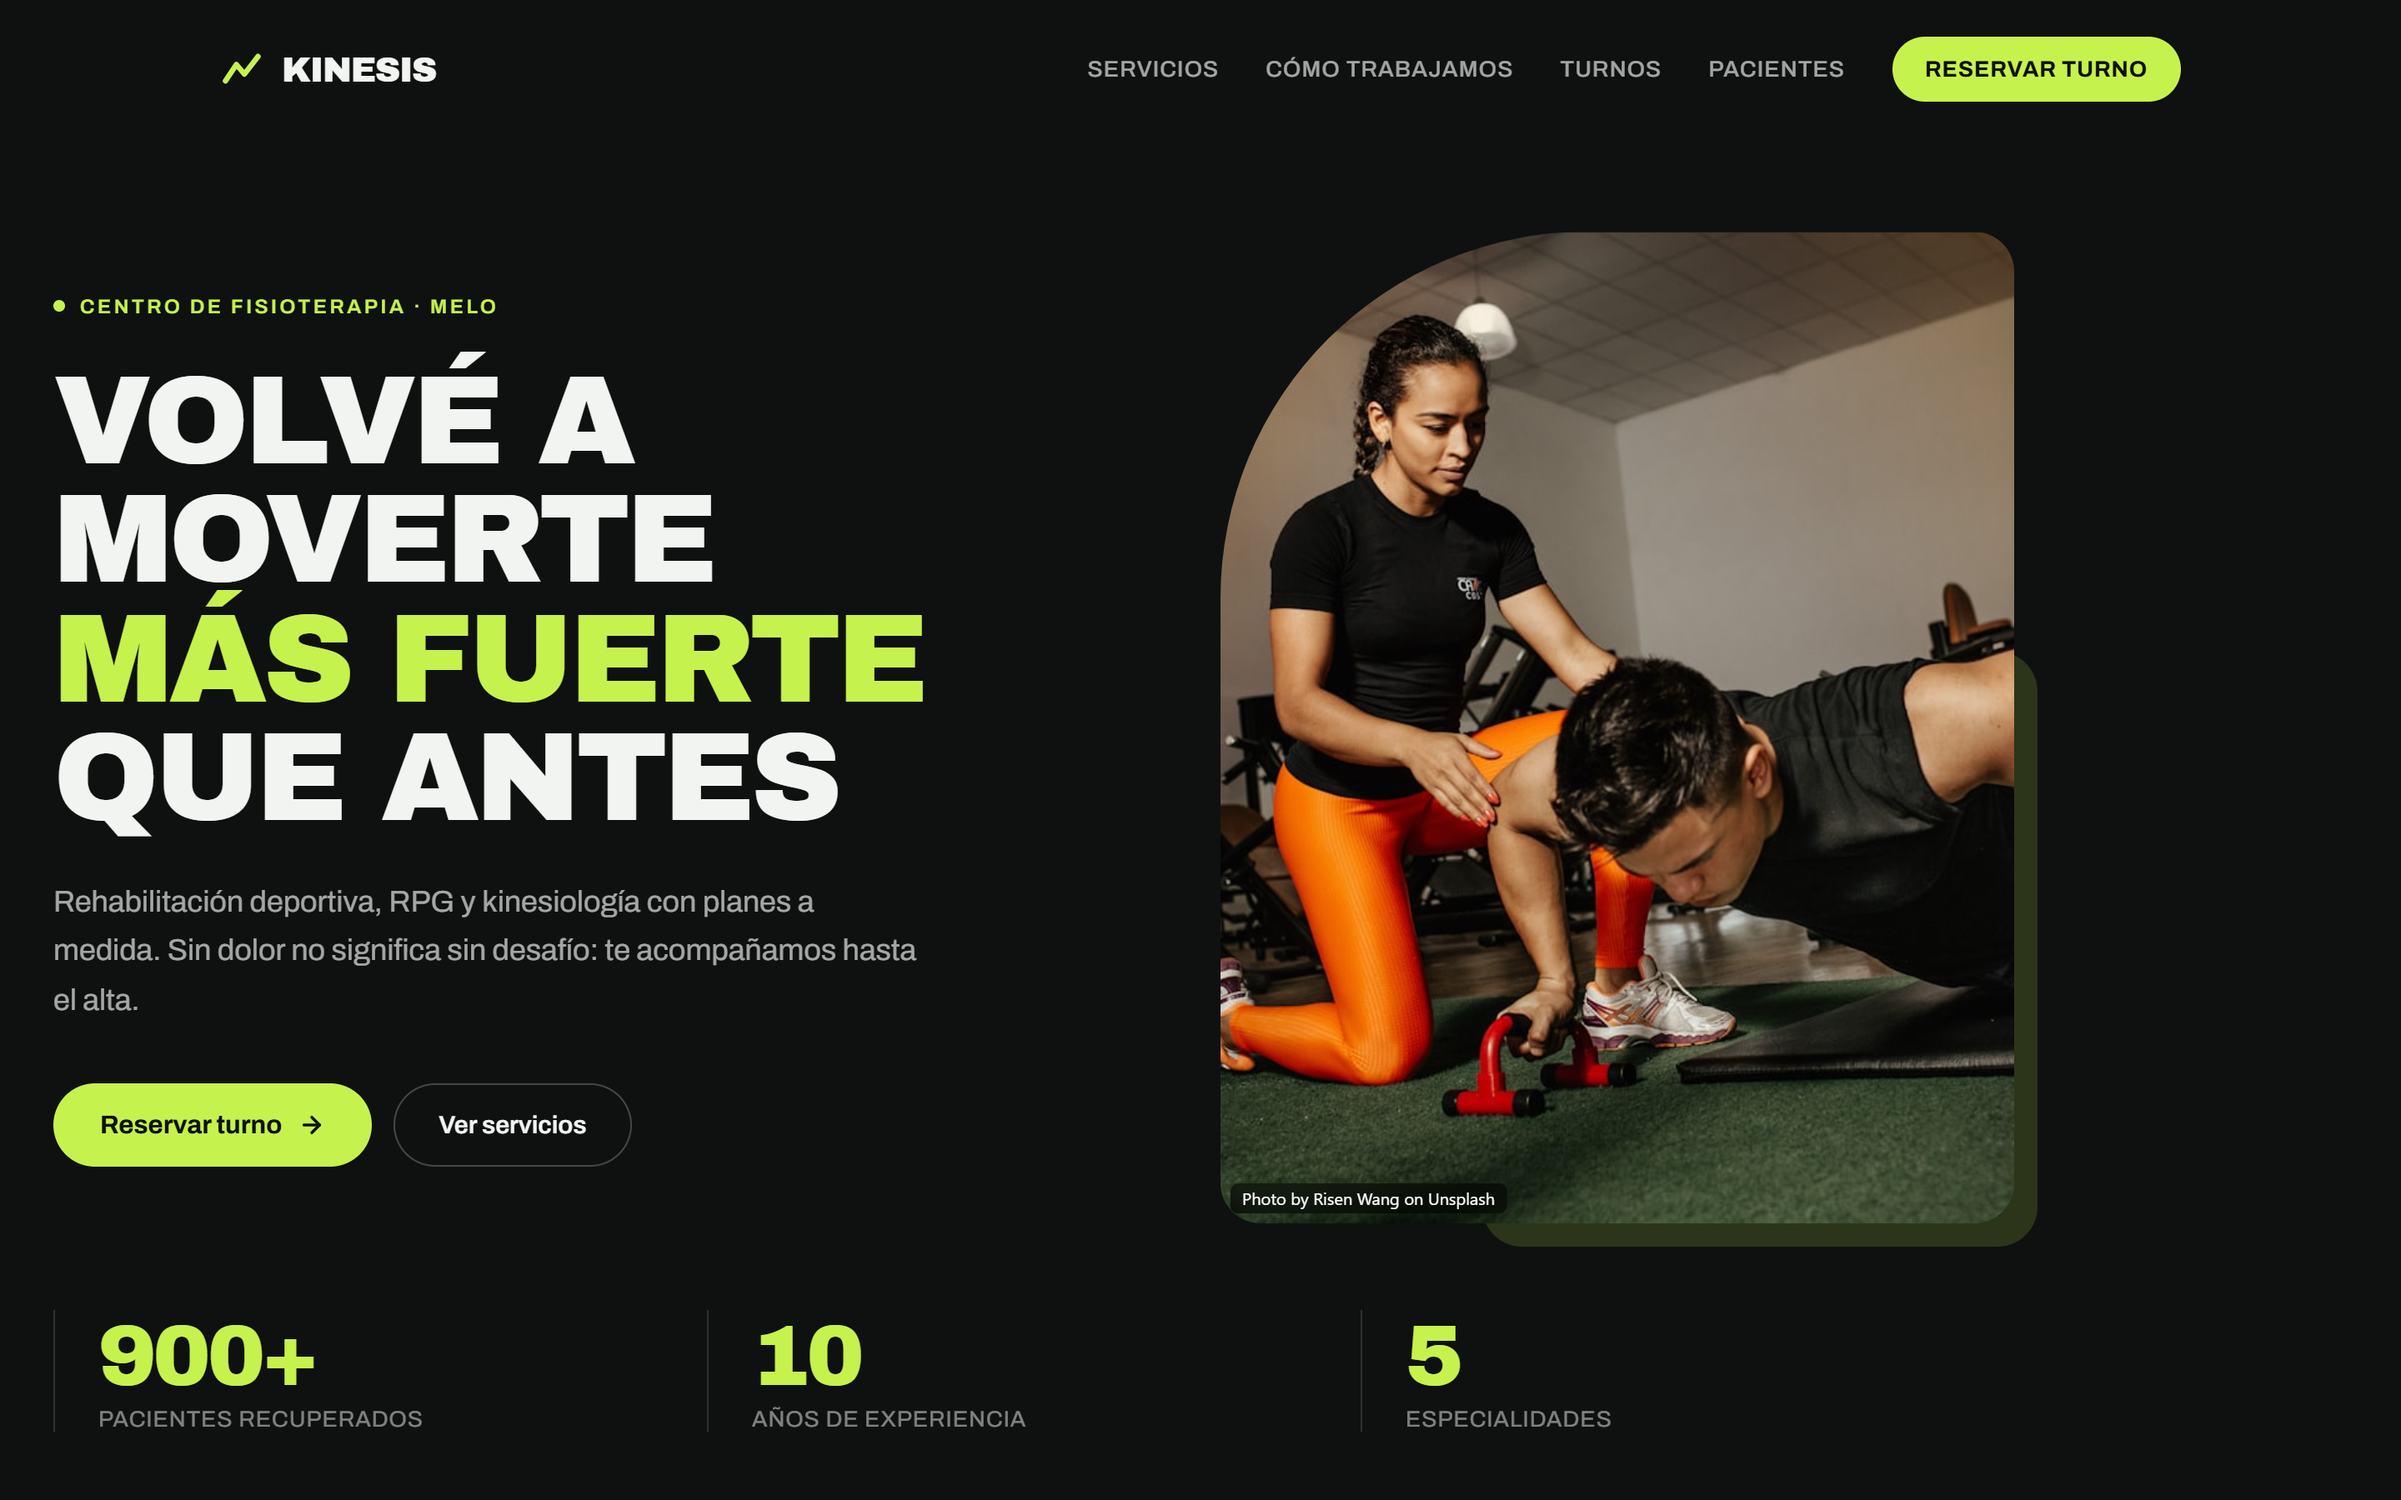
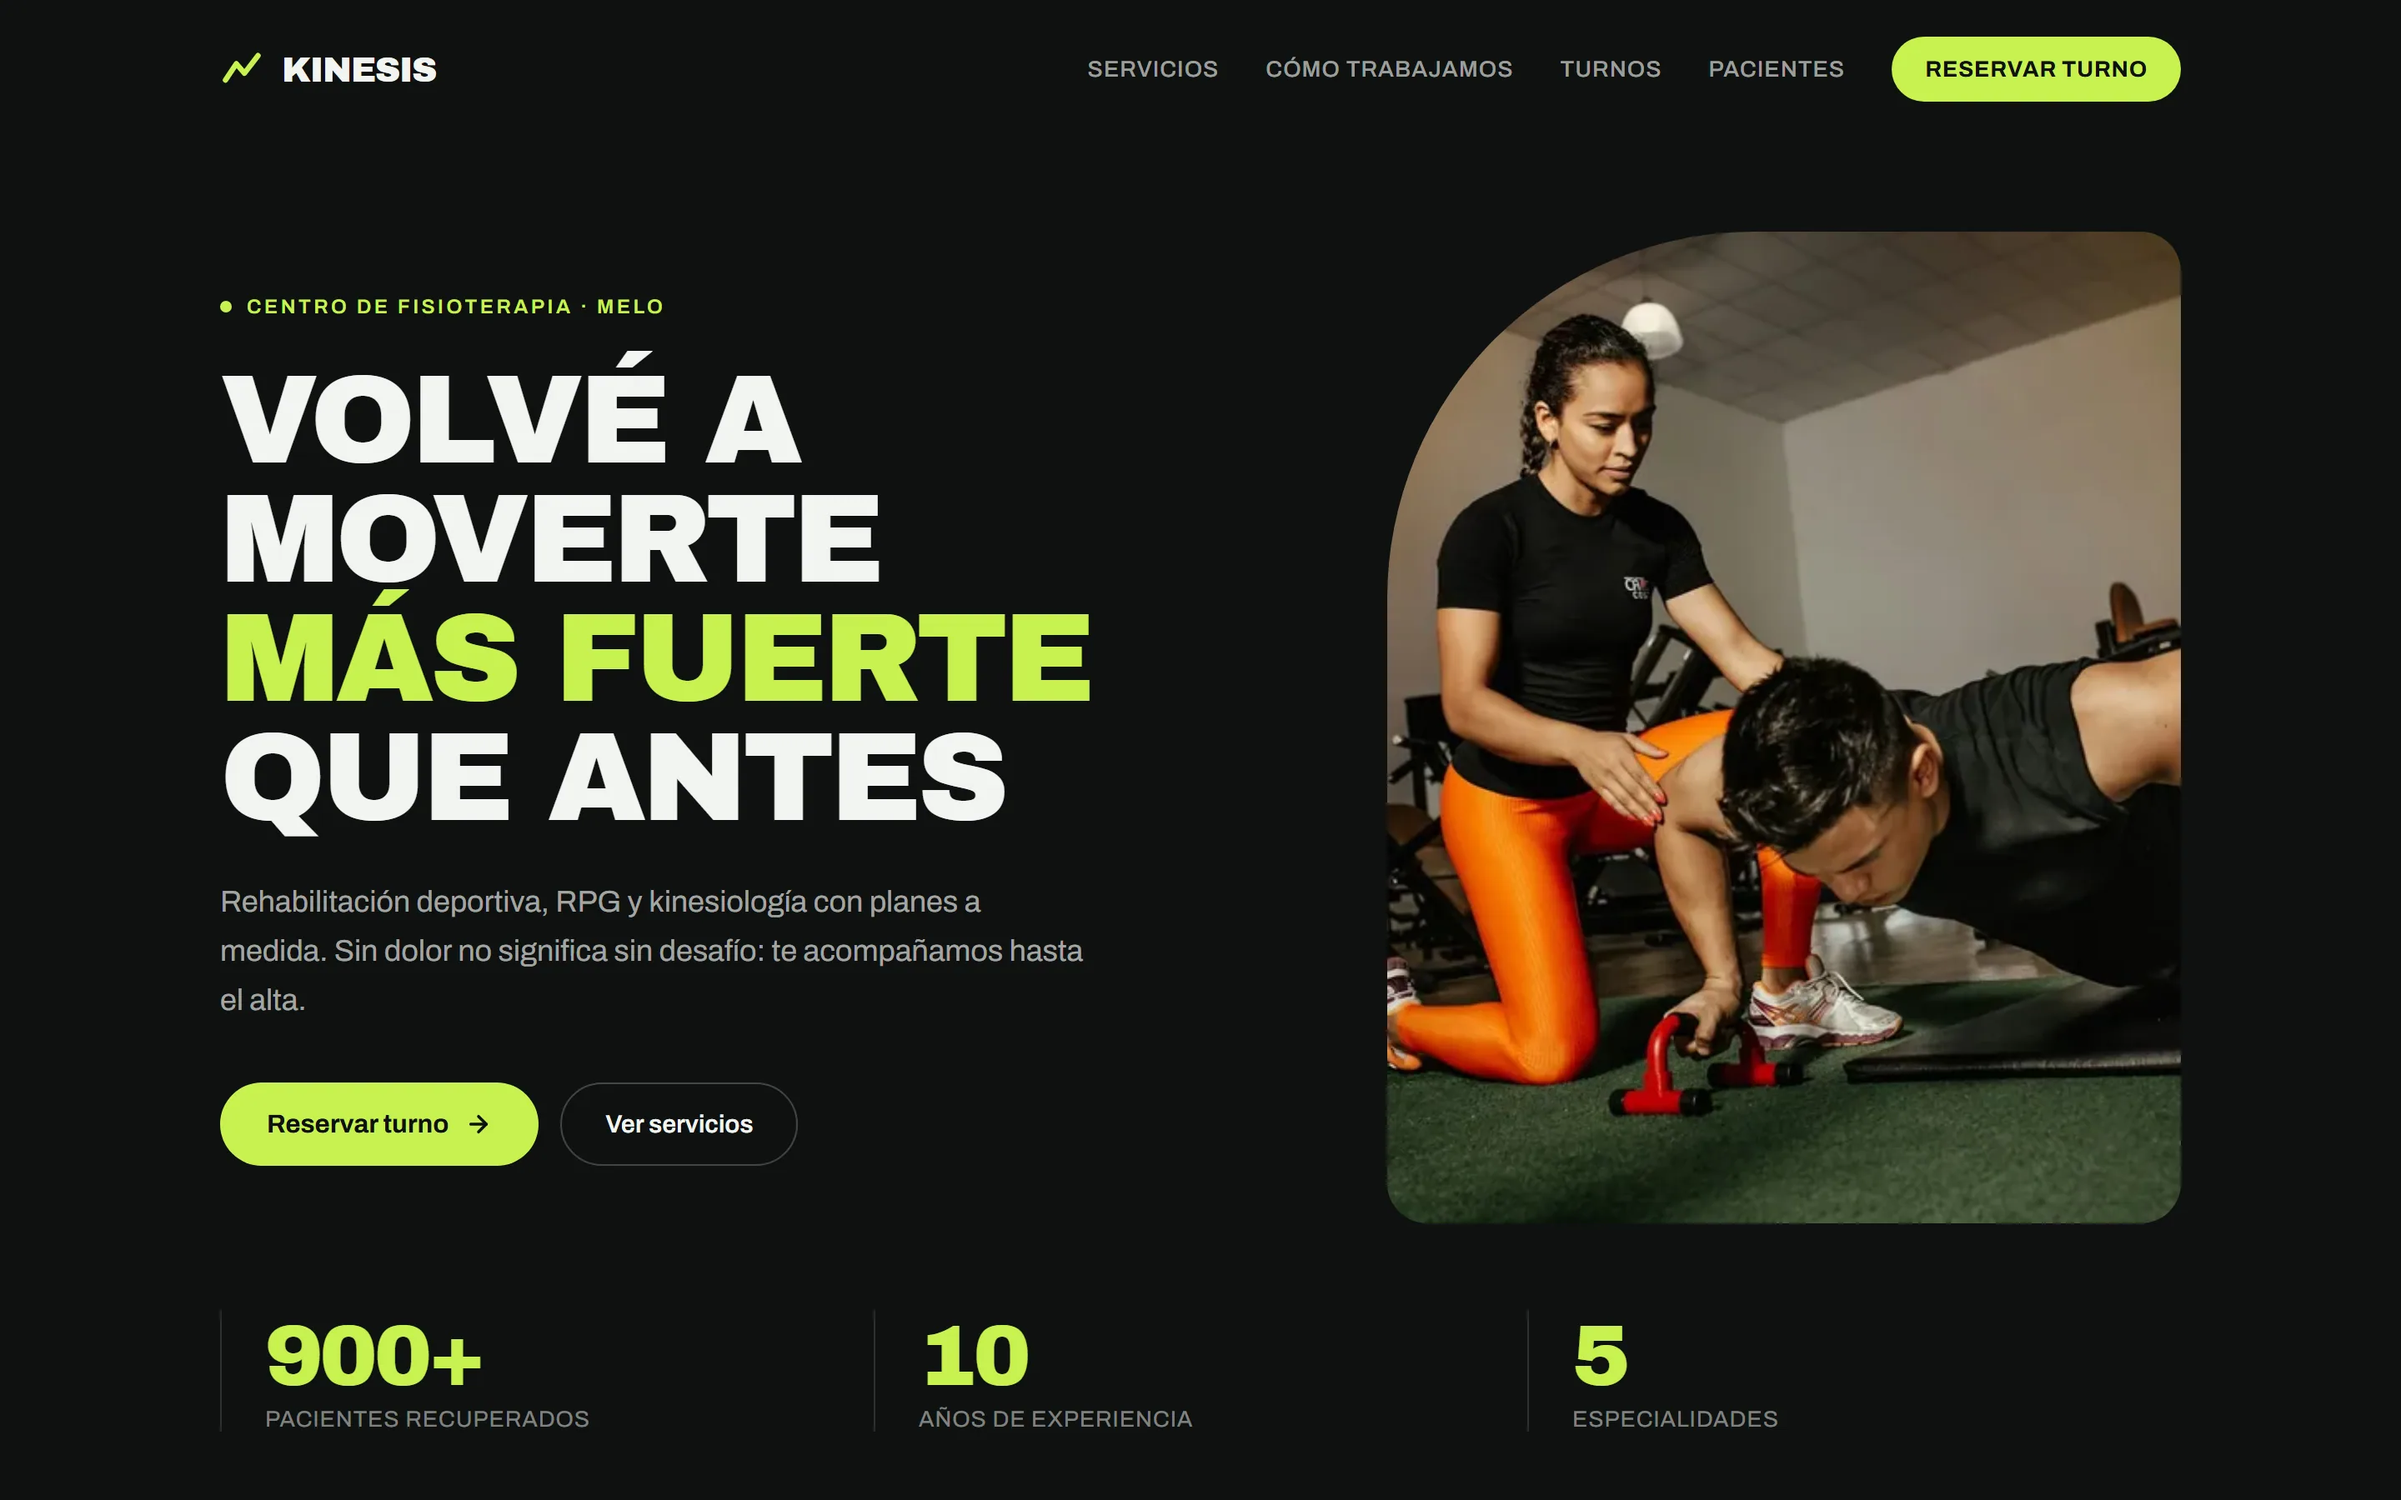
Adornos del hero al ras, capturas nuevas y modales sin pop-in
El marco de juridico y el arco de fisio sobresalian 14px por debajo y por la derecha de la foto: se leian como recuadros sueltos y en mobile se metian 14px en el margen de la pagina. Marco al ras; el arco se elimina porque alineado quedaba 100% tapado. Capturas de las 4 demos retomadas del build a 1440x900, todas 16/10 exactas (veterinaria era 1.467 y perdia la barra de navegacion en el mockup destacado): de 3.3 MB a 592 KB. Fotos de los modales de servicio pasan a eager + fetchpriority low, porque dentro de display:none el lazy no dispara nunca y la descarga arrancaba recien al abrir el modal. Sin atribuciones de foto.

diff --git a/src/data/servicios.ts b/src/data/servicios.ts
@@ -41,9 +41,6 @@ export interface ServicioSecundario {
   url: string;
   src: ImageMetadata;
   alt: string;
-  /** Atribucion obligatoria cuando la foto es de Unsplash. */
-  credit?: string;
-  creditHref?: string;
 }
 
 export interface Pack {
@@ -122,8 +119,6 @@ export const secundarios: ServicioSecundario[] = [
     url: 'planilla de gestión · Vértice',
     src: panelReportes,
     alt: 'Tablero de reportes con gráficos de ventas y gastos',
-    credit: 'Photo by Luke Chesser on Unsplash',
-    creditHref: 'https://unsplash.com/@lukechesser',
   },
   {
     num: '04',
@@ -145,8 +140,6 @@ export const secundarios: ServicioSecundario[] = [
     url: 'soporte mensual · Vértice',
     src: panelMantenimiento,
     alt: 'Pantalla de código representando el mantenimiento del sitio',
-    credit: 'Photo by Chris Ried on Unsplash',
-    creditHref: 'https://unsplash.com/@cdr6934',
   },
 ];
 
